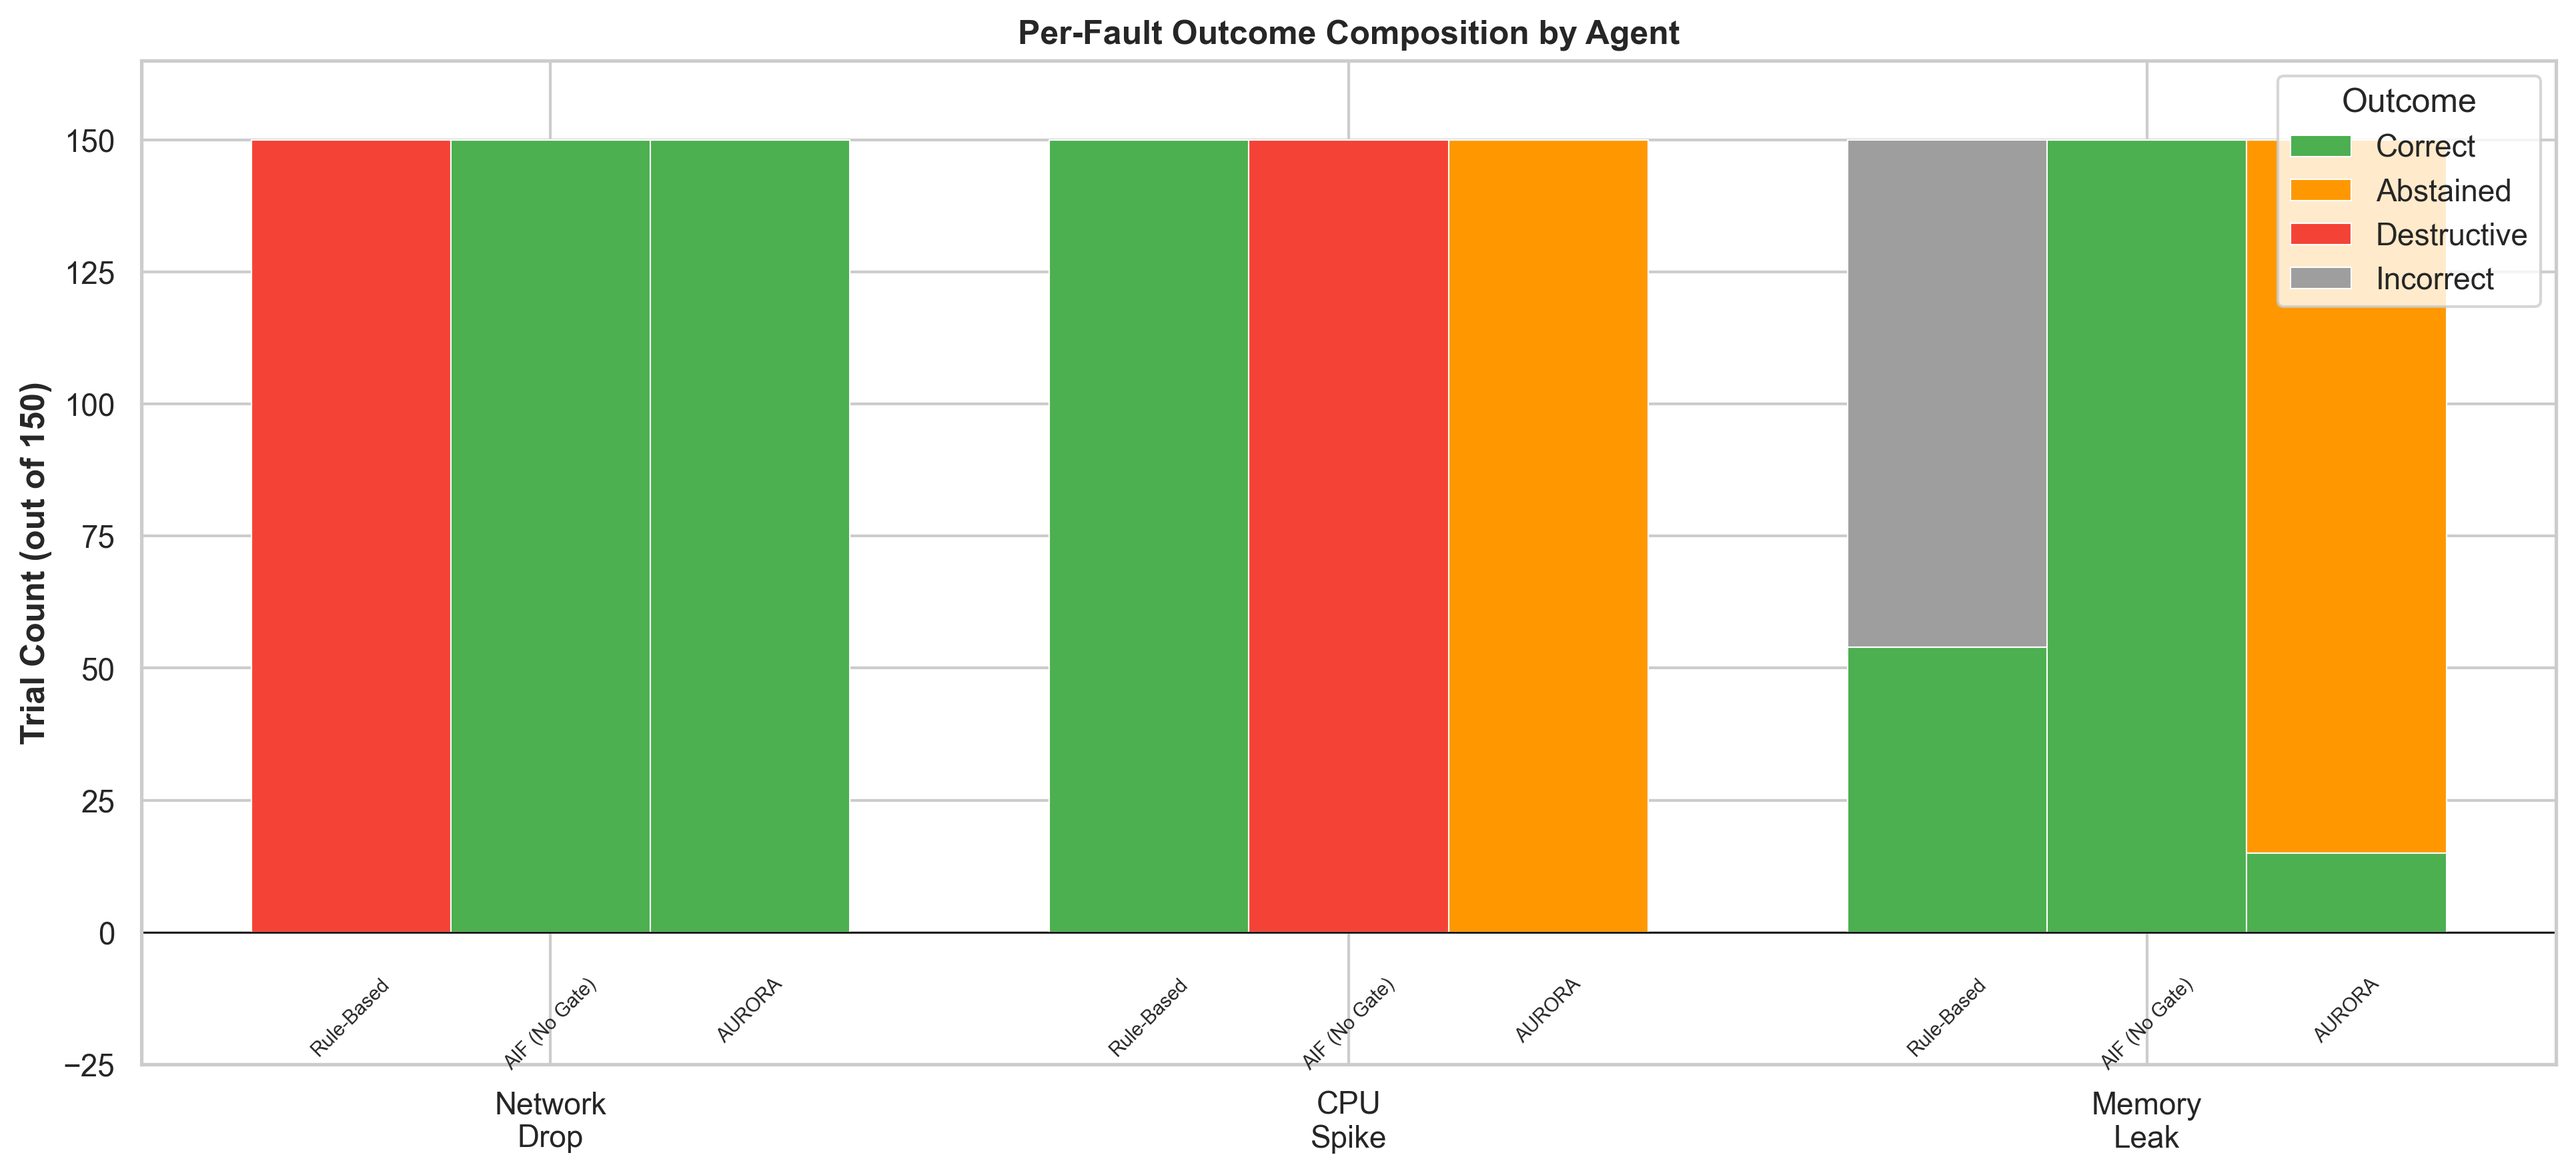
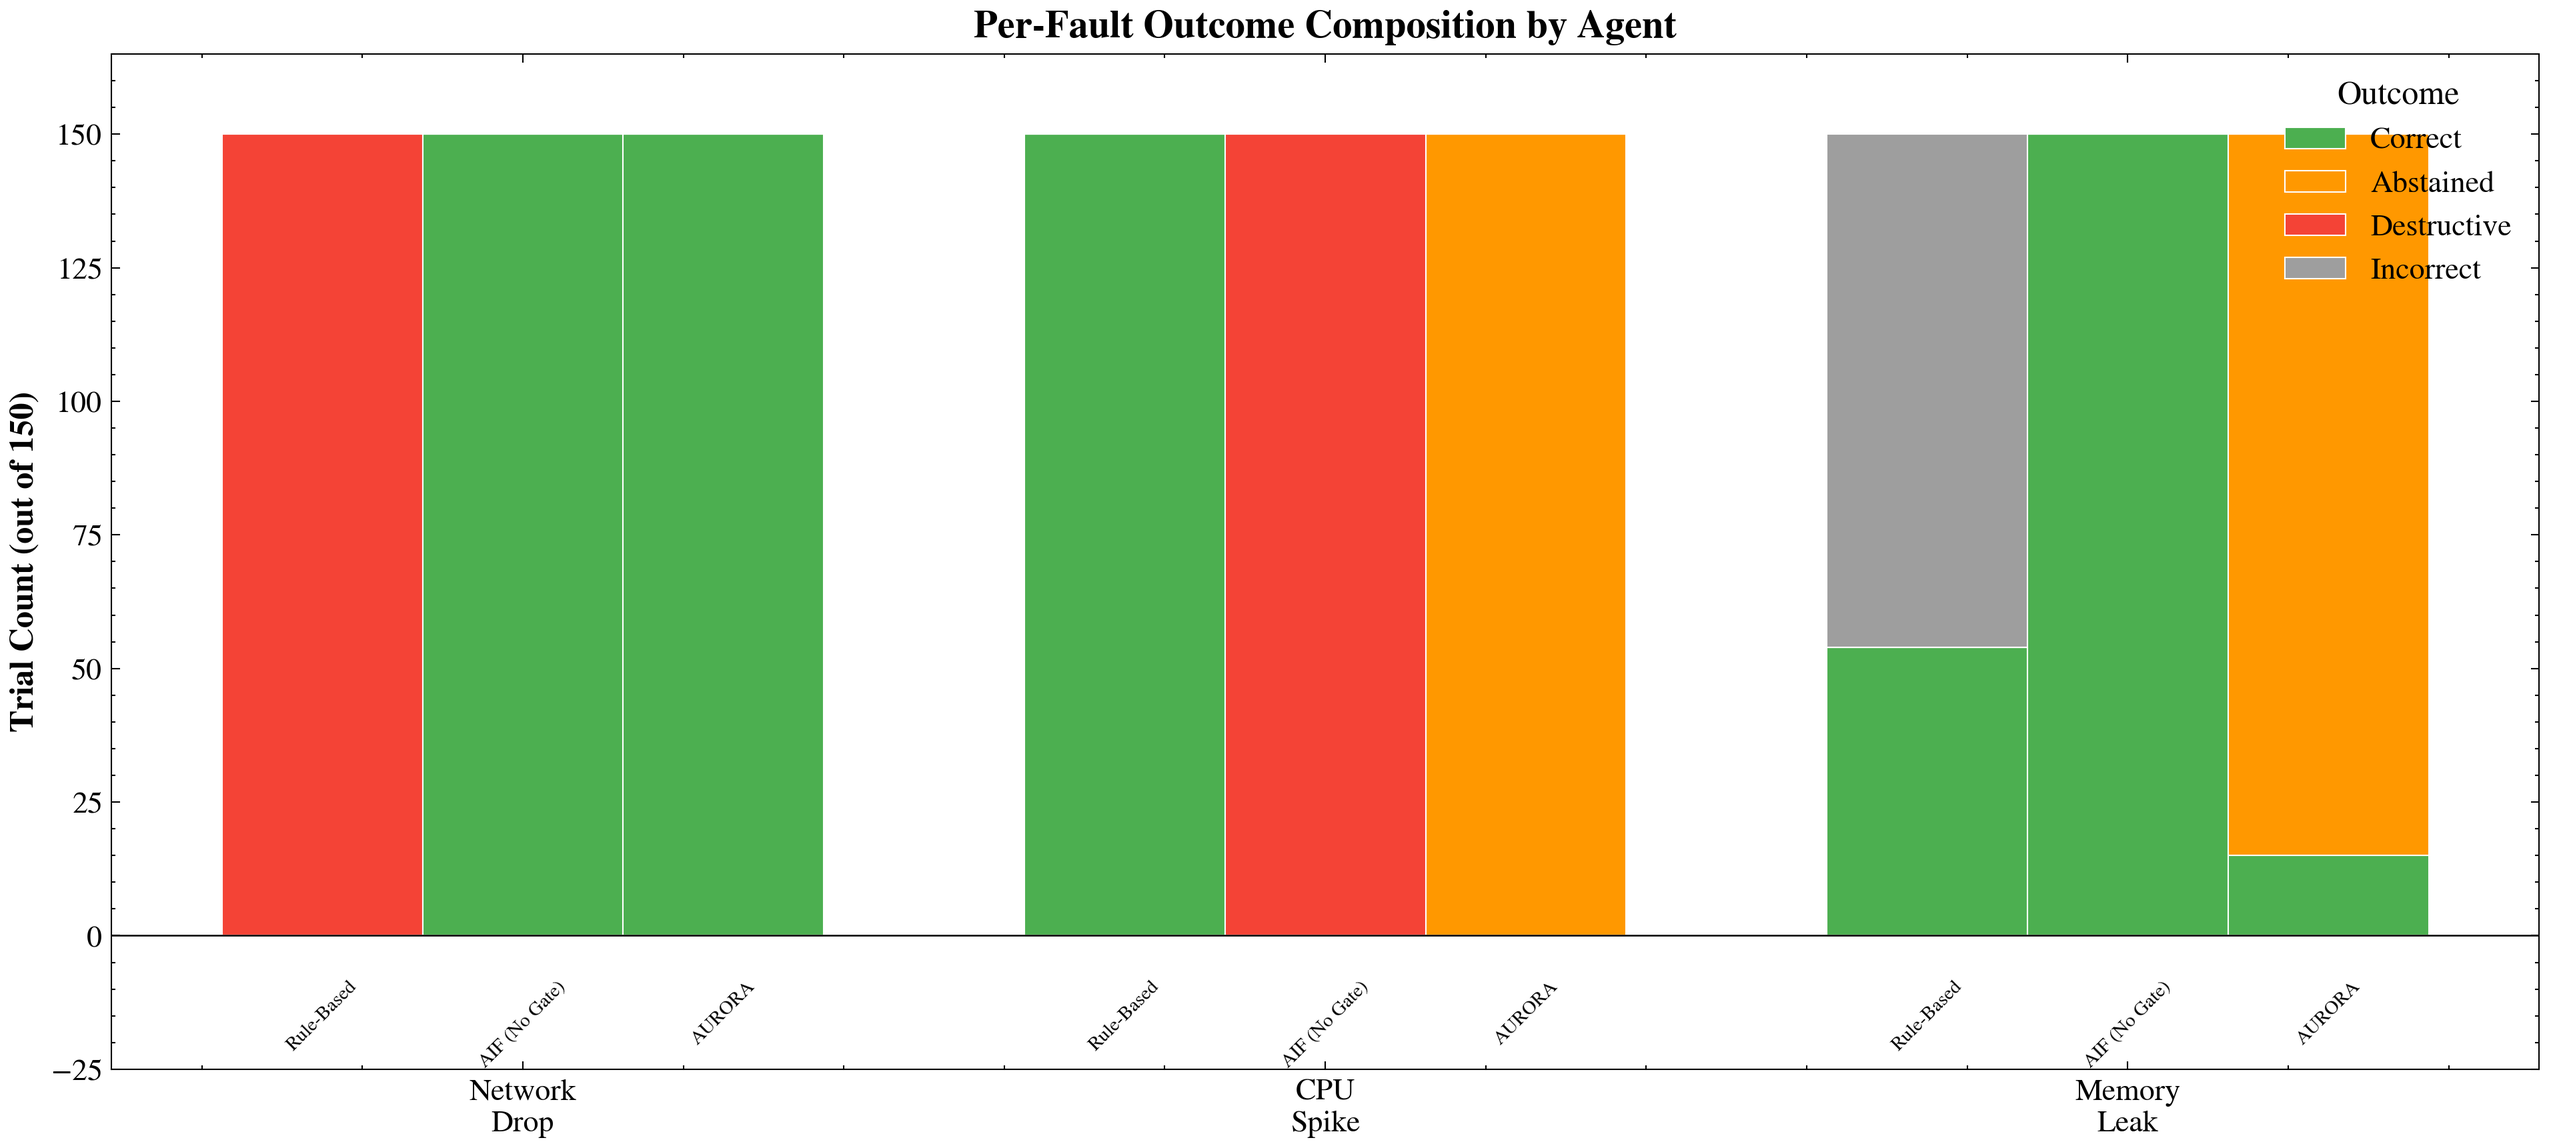
More results charts and plots

diff --git a/experiments/plot_timeseries.py b/experiments/plot_timeseries.py
@@ -1,0 +1,142 @@
+import matplotlib.pyplot as plt
+import numpy as np
+import scienceplots
+from pathlib import Path
+from matplotlib.patches import Patch
+
+# Apply the requested IEEE style with SciencePlots
+plt.style.use(["science", "ieee", "no-latex"])
+
+# Custom colors based on the reviewer's request
+colors = ['#0C5DA5', '#00B945', '#FF9500', '#845B97', '#474747', '#9E9E9E']
+plt.rcParams.update({
+    "figure.dpi": 300,
+    "font.size": 10,
+    "axes.titlesize": 11,
+    "axes.labelsize": 10,
+    "xtick.labelsize": 9,
+    "ytick.labelsize": 9,
+    "legend.fontsize": 9,
+    "axes.prop_cycle": plt.cycler(color=colors),
+})
+
+def generate_fault_timeseries(fault_type):
+    """
+    Generates synthetic but highly realistic time-series data reflecting
+    the 3 grey fault classes evaluated in the Monte Carlo simulation.
+    Time is in 'monitoring steps'.
+    """
+    time = np.arange(0, 50)
+    
+    # Baseline telemetry
+    cpu = np.random.normal(30, 2, 50)
+    memory = np.random.normal(40, 1, 50)
+    delay = np.random.normal(20, 2, 50)  # ms
+    fps = np.random.normal(30, 0.5, 50)
+    
+    fault_start = 20
+    intervention_start = 30
+    
+    if fault_type == "network_drop":
+        # Fault: Sudden network drop
+        delay[fault_start:] += np.random.normal(100, 15, 30)
+        fps[fault_start:] -= np.random.normal(15, 2, 30)
+        
+        # Recovery (Offload to Fog works instantly)
+        delay[intervention_start:] = np.random.normal(25, 3, 20)
+        fps[intervention_start:] = np.random.normal(29, 1, 20)
+        vfe = 3.64
+        action = "Mitigation: Offload to Fog"
+        outcome = "Safe execution"
+        
+    elif fault_type == "cpu_spike":
+        # Fault: Sudden CPU spike causing processing starvation
+        cpu[fault_start:] += np.random.normal(60, 5, 30)
+        fps[fault_start:] -= np.random.normal(20, 3, 30)
+        
+        # Abstention (VFE is too high, local agent refuses to act, CPU stays high)
+        vfe = 4.43
+        action = "Intentional Abstention"
+        outcome = "Abstained (VFE > 3.85)"
+        
+    elif fault_type == "memory_leak":
+        # Fault: Progressive memory leak
+        leak_slope = np.linspace(0, 45, 30)
+        memory[fault_start:] += leak_slope + np.random.normal(0, 1, 30)
+        
+        # Recovery (Container restart clears memory)
+        memory[intervention_start:] = np.random.normal(40, 1, 20)
+        vfe = 0.85
+        action = "Mitigation: Restart Container"
+        outcome = "Safe execution"
+        
+    return time, cpu, memory, delay, fps, vfe, action, outcome
+
+def plot_timeseries():
+    faults = ["network_drop", "cpu_spike", "memory_leak"]
+    titles = ["(a) Network Bandwidth Collapse", "(b) Anomalous CPU Spike", "(c) Progressive Memory Leak"]
+    
+    fig, axes = plt.subplots(3, 1, figsize=(8, 9), sharex=True)
+    
+    for i, fault in enumerate(faults):
+        ax = axes[i]
+        time, cpu, memory, delay, fps, vfe, action, outcome = generate_fault_timeseries(fault)
+        
+        ax2 = ax.twinx()
+        
+        if fault == "network_drop":
+            l1 = ax.plot(time, delay, label="End-to-End Delay (ms)", color=colors[0], linewidth=1.5)
+            l2 = ax2.plot(time, fps, label="Frames Per Second", color=colors[2], linewidth=1.5)
+            ax.set_ylabel("Delay (ms)")
+            ax2.set_ylabel("FPS")
+            ax.set_ylim(0, 150)
+            ax2.set_ylim(0, 35)
+            
+        elif fault == "cpu_spike":
+            l1 = ax.plot(time, cpu, label="CPU Utilization (%)", color=colors[3], linewidth=1.5)
+            l2 = ax2.plot(time, fps, label="Frames Per Second", color=colors[2], linewidth=1.5)
+            ax.set_ylabel("CPU (%)")
+            ax2.set_ylabel("FPS")
+            ax.set_ylim(0, 105)
+            ax2.set_ylim(0, 35)
+            
+        elif fault == "memory_leak":
+            l1 = ax.plot(time, memory, label="Memory Usage (%)", color=colors[1], linewidth=1.5)
+            l2 = ax2.plot(time, fps, label="Frames Per Second", color=colors[2], linewidth=1.5)
+            ax.set_ylabel("Memory (%)")
+            ax2.set_ylabel("FPS")
+            ax.set_ylim(0, 100)
+            ax2.set_ylim(0, 35)
+            
+        ax.set_title(titles[i], loc='left')
+        
+        # Draw vertical lines for fault and intervention
+        ax.axvline(x=20, color='red', linestyle='--', alpha=0.6, linewidth=1)
+        ax.axvline(x=30, color='green', linestyle='--', alpha=0.6, linewidth=1)
+        
+        # Annotations
+        ax.text(20.5, ax.get_ylim()[1]*0.85, 'Fault Injected', color='red', rotation=90, fontsize=8, va='top')
+        
+        if fault == "cpu_spike":
+            ax.text(30.5, ax.get_ylim()[1]*0.85, f'{action}\n(VFE={vfe})', color='#FF9500', fontsize=8, va='top', bbox=dict(facecolor='white', alpha=0.8, edgecolor='none'))
+            ax.axvspan(30, 50, alpha=0.1, color='#FF9500')
+        else:
+            ax.text(30.5, ax.get_ylim()[1]*0.85, f'{action}\n(VFE={vfe})', color='green', fontsize=8, va='top', bbox=dict(facecolor='white', alpha=0.8, edgecolor='none'))
+            ax.axvspan(30, 50, alpha=0.1, color='green')
+            
+        # Unified legend
+        lns = l1 + l2
+        labs = [l.get_label() for l in lns]
+        ax.legend(lns, labs, loc="lower right", frameon=True)
+
+    axes[-1].set_xlabel("Time (Monitoring Steps)")
+    plt.tight_layout()
+    
+    out_dir = Path("/Users/suvidesilva/Downloads/ai_agnt/experiments/results")
+    out_dir.mkdir(parents=True, exist_ok=True)
+    out_path = out_dir / "timeseries_telemetry.png"
+    plt.savefig(out_path, dpi=300, bbox_inches='tight')
+    print(f"Successfully saved {out_path}")
+
+if __name__ == "__main__":
+    plot_timeseries()

diff --git a/experiments/analyze_results.py b/experiments/analyze_results.py
@@ -30,10 +30,23 @@ from src.evaluation.proportion_ci import (
     wilson_summary_for_agent_metrics,
 )
 
-# Set plot style
-sns.set_theme(style="whitegrid", palette="muted")
-plt.rcParams['figure.figsize'] = (12, 6)
-plt.rcParams['font.size'] = 11
+import scienceplots
+
+# Apply IEEE formatting with SciencePlots
+plt.style.use(["science", "ieee", "no-latex"])
+
+colors = ['#0C5DA5', '#00B945', '#FF9500', '#845B97', '#474747', '#9E9E9E']
+plt.rcParams.update({
+    "figure.figsize": (12, 6),
+    "figure.dpi": 300,
+    "font.size": 12,
+    "axes.titlesize": 14,
+    "axes.labelsize": 12,
+    "xtick.labelsize": 11,
+    "ytick.labelsize": 11,
+    "legend.fontsize": 11,
+    "axes.prop_cycle": plt.cycler(color=colors),
+})
 
 
 class ResultsAnalyzer:
